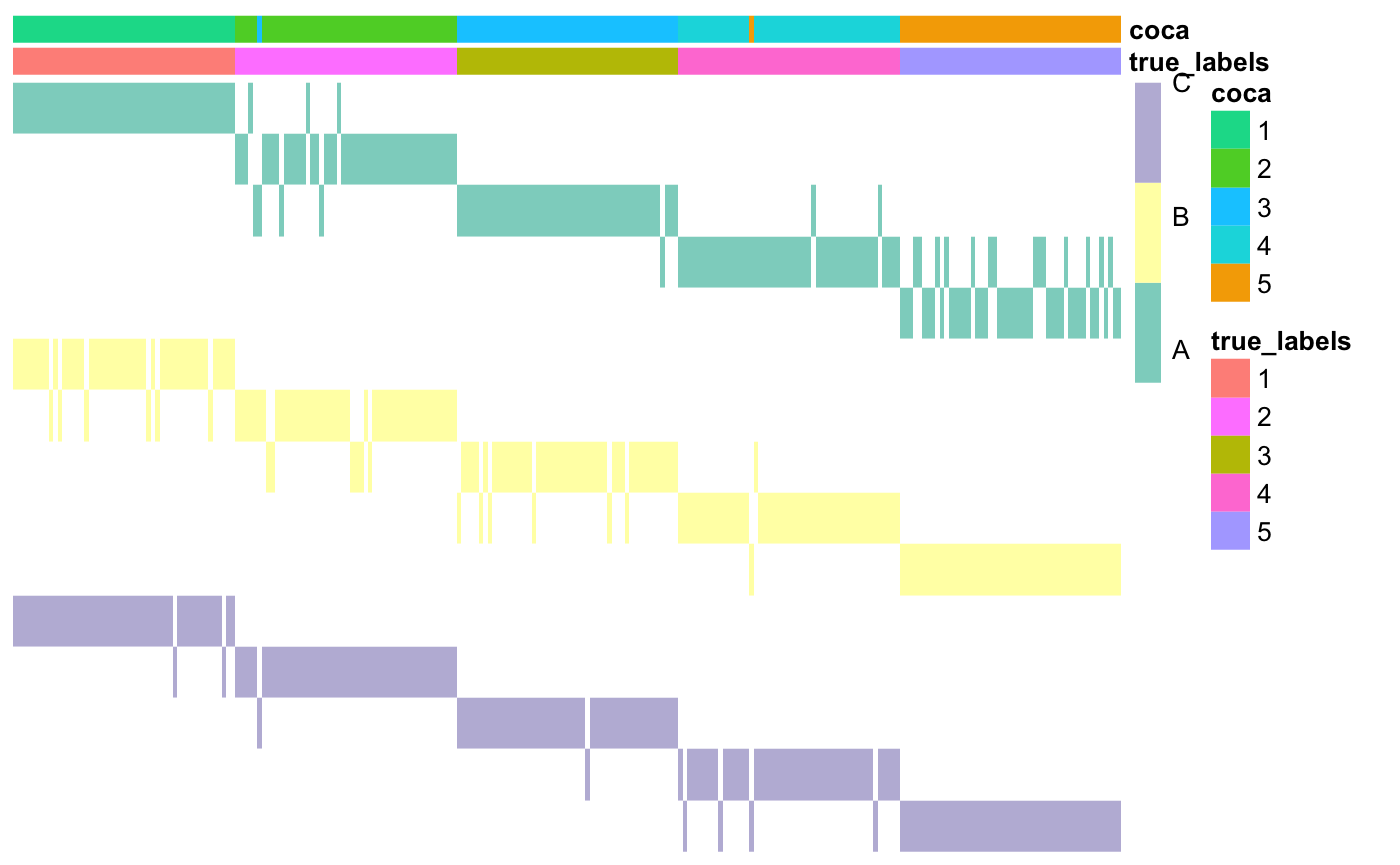
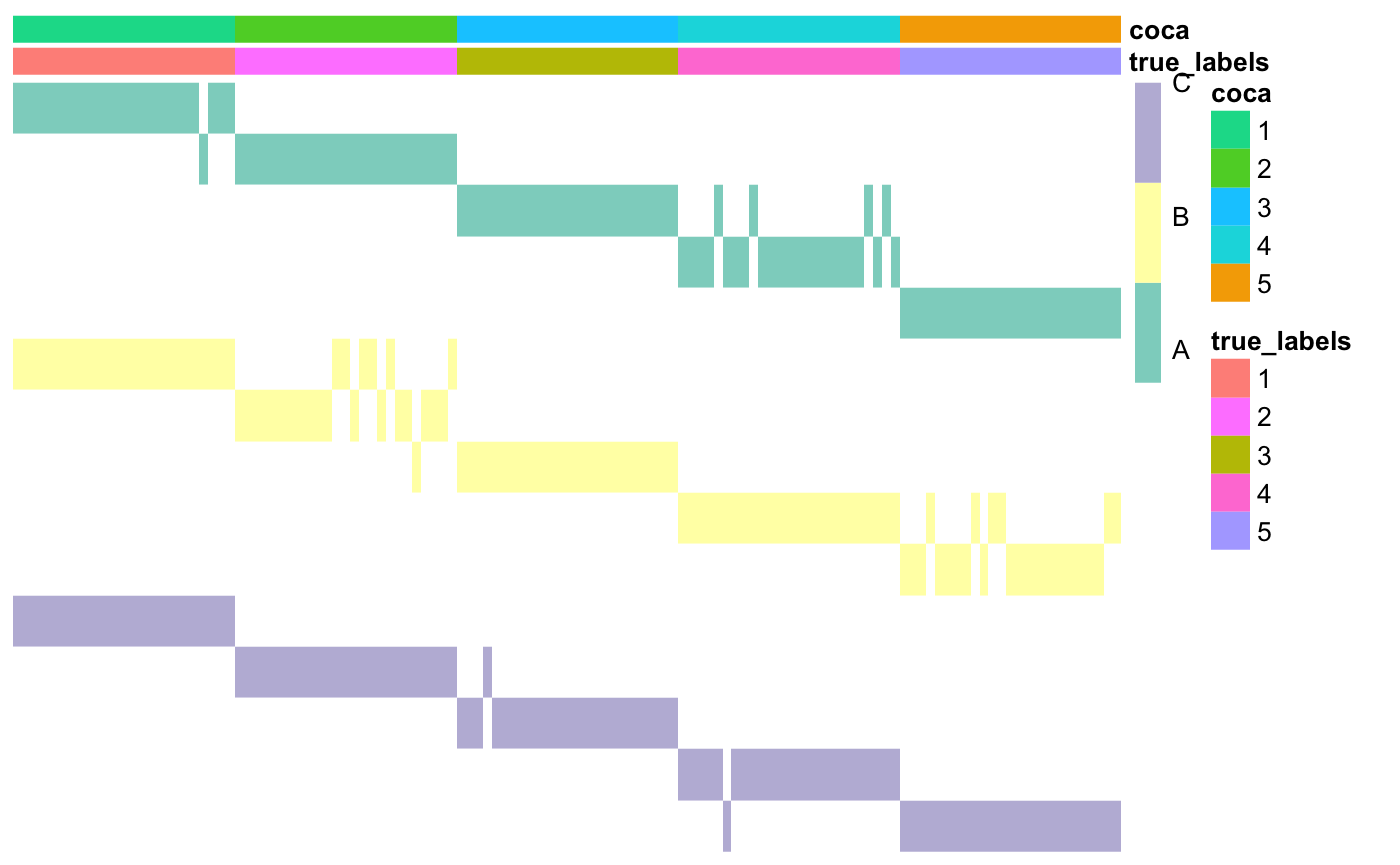
update website

diff --git a/docs/articles/coca-vignette.html b/docs/articles/coca-vignette.html
@@ -88,7 +88,7 @@
       <h1>Introduction to coca</h1>
                         <h4 class="author">Alessandra Cabassi</h4>
             
-            <h4 class="date">2020-03-25</h4>
+            <h4 class="date">2020-03-26</h4>
       
       <small class="dont-index">Source: <a href="https://github.com/acabassi/coca/blob/master/vignettes/coca-vignette.Rmd"><code>vignettes/coca-vignette.Rmd</code></a></small>
       <div class="hidden name"><code>coca-vignette.Rmd</code></div>
@@ -160,7 +160,7 @@
 <a class="sourceLine" id="cb4-6" data-line-number="6"><span class="co"># Compare clustering to the true labels</span></a>
 <a class="sourceLine" id="cb4-7" data-line-number="7">ari &lt;-<span class="st"> </span>mclust<span class="op">::</span><span class="kw"><a href="https://mclust-org.github.io/mclust/reference/adjustedRandIndex.html">adjustedRandIndex</a></span>(true_labels, coca<span class="op">$</span>clusterLabels)</a>
 <a class="sourceLine" id="cb4-8" data-line-number="8">ari</a></code></pre></div>
-<pre><code>## [1] 0.9798792</code></pre>
+<pre><code>## [1] 1</code></pre>
 <div class="sourceCode" id="cb6"><pre class="sourceCode r"><code class="sourceCode r"><a class="sourceLine" id="cb6-1" data-line-number="1"><span class="co">### Plot the matrix of clusters with the newly found cluster labels</span></a>
 <a class="sourceLine" id="cb6-2" data-line-number="2">annotations<span class="op">$</span>coca &lt;-<span class="st"> </span><span class="kw"><a href="https://rdrr.io/r/base/factor.html">as.factor</a></span>(coca<span class="op">$</span>clusterLabels)</a>
 <a class="sourceLine" id="cb6-3" data-line-number="3">coca<span class="op">::</span><span class="kw"><a href="https://rdrr.io/pkg/coca/man/plotMOC.html">plotMOC</a></span>(moc, datasetIndicator, <span class="dt">datasetNames =</span> datasetNames,</a>
@@ -174,7 +174,7 @@
 <a class="sourceLine" id="cb7-4" data-line-number="4"><span class="co"># Compare clustering to the true labels</span></a>
 <a class="sourceLine" id="cb7-5" data-line-number="5">ari &lt;-<span class="st"> </span>mclust<span class="op">::</span><span class="kw"><a href="https://mclust-org.github.io/mclust/reference/adjustedRandIndex.html">adjustedRandIndex</a></span>(true_labels, coca<span class="op">$</span>clusterLabels)</a>
 <a class="sourceLine" id="cb7-6" data-line-number="6">ari</a></code></pre></div>
-<pre><code>## [1] 0.9798792</code></pre>
+<pre><code>## [1] 0.8117604</code></pre>
 <div class="sourceCode" id="cb9"><pre class="sourceCode r"><code class="sourceCode r"><a class="sourceLine" id="cb9-1" data-line-number="1"><span class="co">### Plot the matrix of clusters with the newly found cluster labels</span></a>
 <a class="sourceLine" id="cb9-2" data-line-number="2">annotations<span class="op">$</span>coca &lt;-<span class="st"> </span><span class="kw"><a href="https://rdrr.io/r/base/factor.html">as.factor</a></span>(coca<span class="op">$</span>clusterLabels)</a>
 <a class="sourceLine" id="cb9-3" data-line-number="3">coca<span class="op">::</span><span class="kw"><a href="https://rdrr.io/pkg/coca/man/plotMOC.html">plotMOC</a></span>(moc, datasetIndicator, <span class="dt">datasetNames =</span> datasetNames,</a>

diff --git a/docs/index.html b/docs/index.html
@@ -92,10 +92,12 @@
 <div id="installing" class="section level2">
 <h2 class="hasAnchor">
 <a href="#installing" class="anchor"></a>Installing</h2>
-<p>In R, type</p>
-<div class="sourceCode" id="cb1"><pre class="sourceCode r"><code class="sourceCode r"><a class="sourceLine" id="cb1-1" data-line-number="1"><span class="kw"><a href="https://rdrr.io/r/base/library.html">library</a></span>(devtools)</a>
-<a class="sourceLine" id="cb1-2" data-line-number="2"><span class="kw"><a href="https://devtools.r-lib.org//reference/remote-reexports.html">install_github</a></span>(<span class="st">"acabassi/coca"</span>)</a>
-<a class="sourceLine" id="cb1-3" data-line-number="3"><span class="kw"><a href="https://rdrr.io/r/base/library.html">library</a></span>(coca)</a></code></pre></div>
+<p>You can install the latest released version of <code>coca</code> from <a href="https://cran.r-project.org/">CRAN</a> with</p>
+<div class="sourceCode" id="cb1"><pre class="sourceCode r"><code class="sourceCode r"><a class="sourceLine" id="cb1-1" data-line-number="1"><span class="kw"><a href="https://rdrr.io/r/utils/install.packages.html">install.packages</a></span>(<span class="st">"coca"</span>)</a></code></pre></div>
+<p>or the development version from <a href="https://github.com/">GitHub</a> with</p>
+<div class="sourceCode" id="cb2"><pre class="sourceCode r"><code class="sourceCode r"><a class="sourceLine" id="cb2-1" data-line-number="1"><span class="kw"><a href="https://rdrr.io/r/base/library.html">library</a></span>(devtools)</a>
+<a class="sourceLine" id="cb2-2" data-line-number="2"><span class="kw"><a href="https://devtools.r-lib.org//reference/remote-reexports.html">install_github</a></span>(<span class="st">"acabassi/coca"</span>)</a>
+<a class="sourceLine" id="cb2-3" data-line-number="3"><span class="kw"><a href="https://rdrr.io/r/base/library.html">library</a></span>(coca)</a></code></pre></div>
 </div>
 </div>
 
@@ -105,6 +107,8 @@
     <div class="links">
 <h2>Links</h2>
 <ul class="list-unstyled">
+<li>Download from CRAN at <br><a href="https://cloud.r-project.org/package=coca">https://cloud.r-project.org/package=coca</a>
+</li>
 <li>Browse source code at <br><a href="https://github.com/acabassi/coca">https://github.com/acabassi/coca</a>
 </li>
 <li>Report a bug at <br><a href="http://github.com/acabassi/coca/issues">http://github.com/acabassi/coca/issues</a>
@@ -136,6 +140,8 @@
   <div class="dev-status">
 <h2>Dev status</h2>
 <ul class="list-unstyled">
+<li><a href="https://CRAN.R-project.org/package=coca"><img src="https://www.r-pkg.org/badges/version/coca" alt="CRAN status"></a></li>
+<li><a href="https://travis-ci.org/acabassi/coca"><img src="https://travis-ci.org/acabassi/coca.svg?branch=master" alt="Build Status"></a></li>
 <li><a href="https://zenodo.org/badge/latestdoi/150476075"><img src="https://zenodo.org/badge/150476075.svg" alt="DOI"></a></li>
 </ul>
 </div>

diff --git a/docs/reference/coca.html b/docs/reference/coca.html
@@ -265,7 +265,7 @@ clustered together and a vector of cluster labels.</p></dd>
 <dt>clusterLabels</dt><dd><p>the final cluster labels.</p></dd>
 <dt>K</dt><dd><p>the final number of clusters. If provided by the user, this is
 the same as the input. Otherwise, this is the number of clusters selected via
-the requested method (see argument "choiceKmethod").</p></dd>
+the requested method (see argument <code>choiceKmethod</code>).</p></dd>
 <dt>consensusMatrices</dt><dd><p>if returnAllMatrices = TRUE, this array
 also returned, containing the consensus matrices obtained for each of the
 numbers of clusters considered by the algorithm.</p></dd>
@@ -273,8 +273,7 @@ numbers of clusters considered by the algorithm.</p></dd>
     <h2 class="hasAnchor" id="references"><a class="anchor" href="#references"></a>References</h2>
 
     <p>The Cancer Genome Atlas, 2012. Comprehensive molecular
-portraits of human breast tumours. Nature,
-487(7407), pp.61–70.</p>
+portraits of human breast tumours. Nature, 487(7407), pp.61–70.</p>
 <p>Cabassi, A. and Kirk, P. D. W. (2019). Multiple kernel learning
 for integrative consensus clustering of 'omic datasets. arXiv preprint.
 arXiv:1904.07701.</p>
